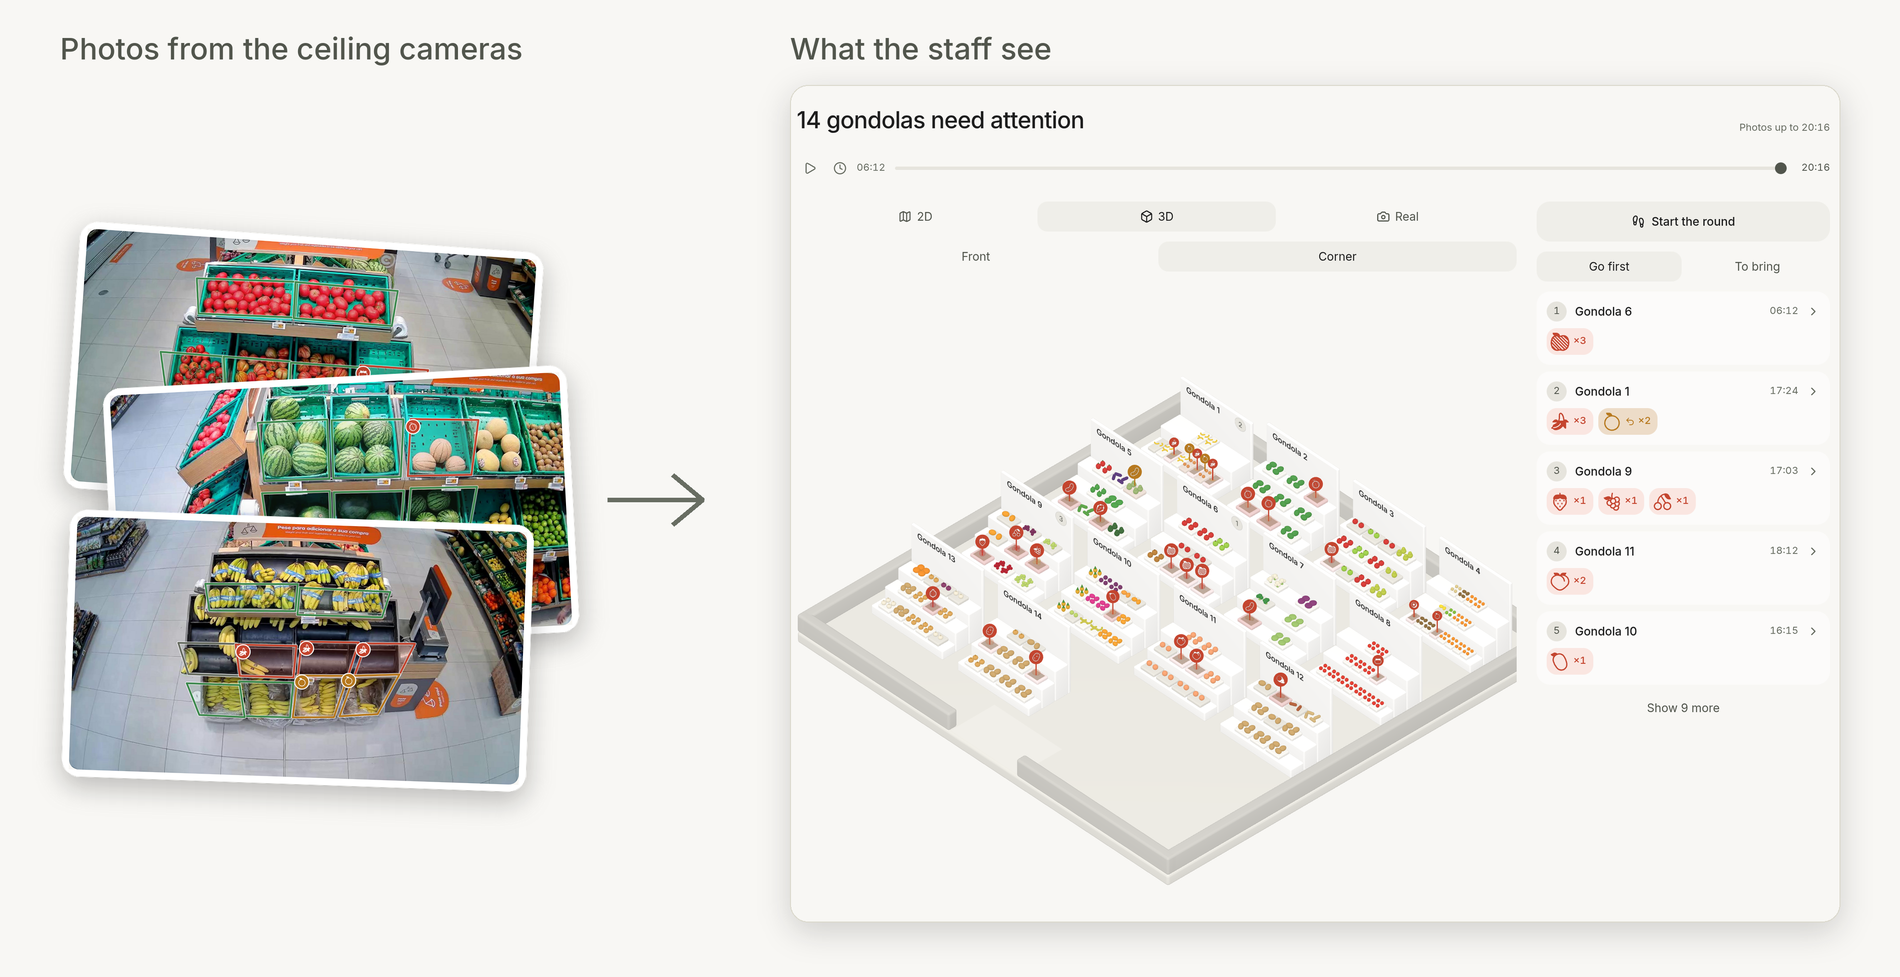
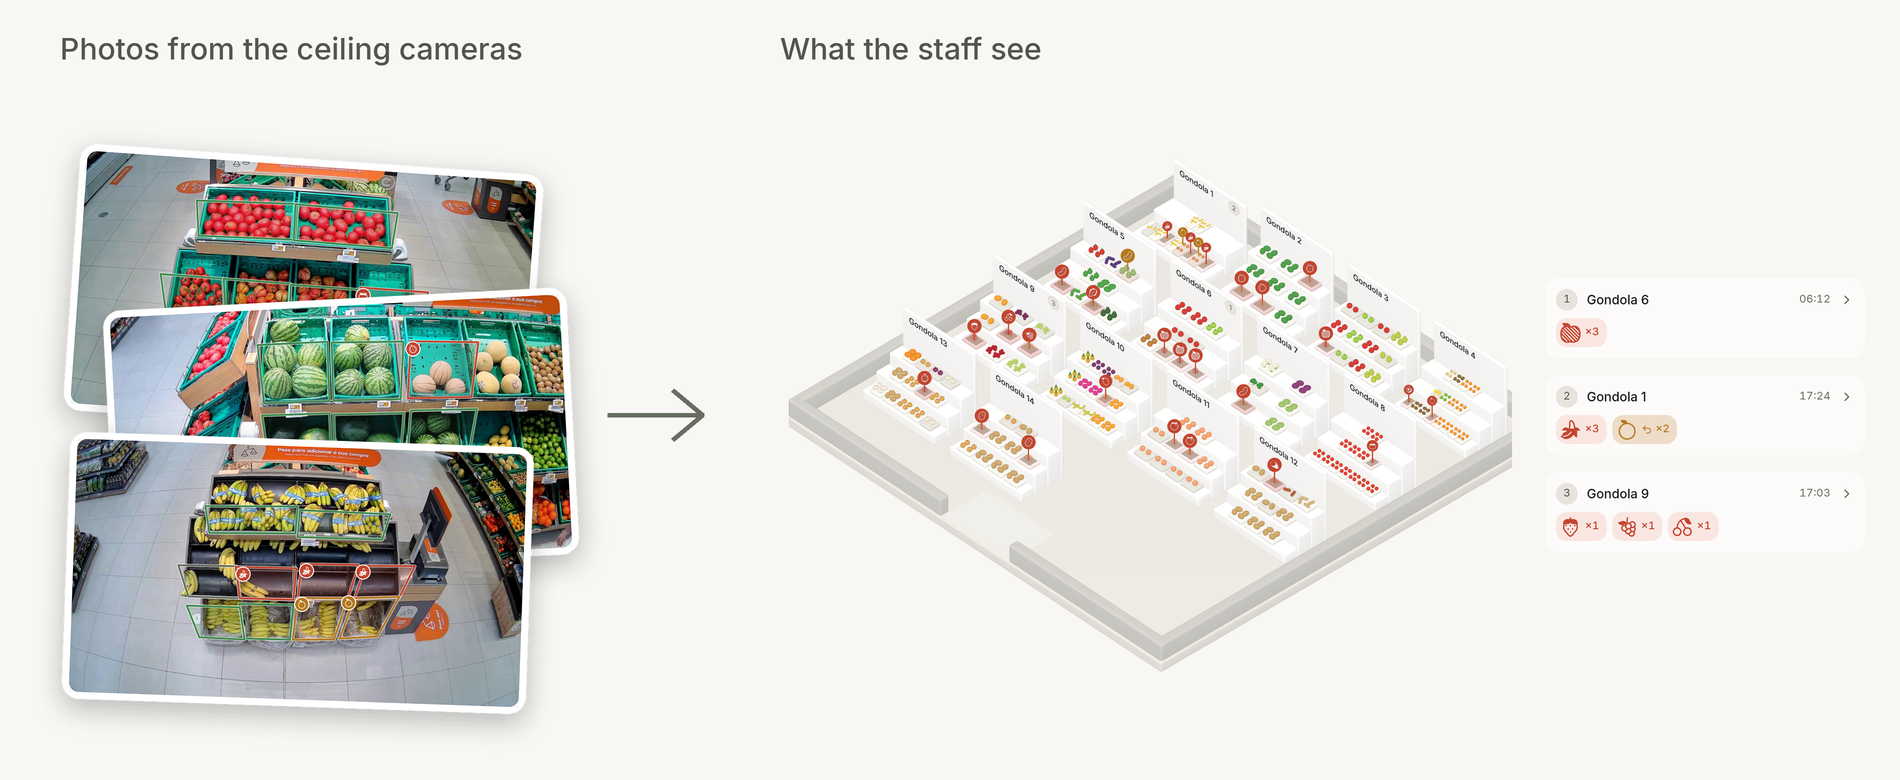
docs: clean the README header picture to the 3D store and the first stops

diff --git a/README.pt.md b/README.pt.md
@@ -23,7 +23,7 @@
 </p>
 
 <p align="center">
-  <img src="assets/readme/photo-to-tasks.png" alt="Fotografias de câmaras de teto com as zonas da prateleira assinaladas, à esquerda, e à direita a primeira página da aplicação com a loja em 3D e a lista da ronda" width="100%">
+  <img src="assets/readme/photo-to-tasks.png" alt="Fotografias de câmaras de teto com as zonas da prateleira assinaladas, à esquerda, e à direita a loja em 3D com os problemas assinalados em cada gôndola e as três primeiras paragens da ronda" width="100%">
 </p>
 
 <p align="center"><sub>Entram fotografias das câmaras de teto, sai uma lista de trabalho. As marcas são as respostas do modelo para a última fotografia de cada câmara.</sub></p>

diff --git a/README.es.md b/README.es.md
@@ -23,7 +23,7 @@
 </p>
 
 <p align="center">
-  <img src="assets/readme/photo-to-tasks.png" alt="Fotos de cámaras de techo con las zonas de estantería marcadas, a la izquierda, y a la derecha la primera página de la app con la tienda en 3D y la lista de la ronda" width="100%">
+  <img src="assets/readme/photo-to-tasks.png" alt="Fotos de cámaras de techo con las zonas de estantería marcadas, a la izquierda, y a la derecha la tienda en 3D con los problemas marcados en cada góndola y las tres primeras paradas de la ronda" width="100%">
 </p>
 
 <p align="center"><sub>Entran fotos de las cámaras de techo, sale una lista de trabajo. Las marcas son las respuestas del modelo para la última foto de cada cámara.</sub></p>

diff --git a/README.md b/README.md
@@ -24,7 +24,7 @@
 </p>
 
 <p align="center">
-  <img src="assets/readme/photo-to-tasks.png" alt="Photos from ceiling cameras with the shelf areas marked, on the left, and on the right the app's first page with the store in 3D and the round list" width="100%">
+  <img src="assets/readme/photo-to-tasks.png" alt="Photos from ceiling cameras with the shelf areas marked, on the left, and on the right the store in 3D with the problems marked on each gondola and the first three stops of the round" width="100%">
 </p>
 
 <p align="center"><sub>Photos from the ceiling cameras in, a list of work out. The marks are the model's answers for the last photo of each camera.</sub></p>
